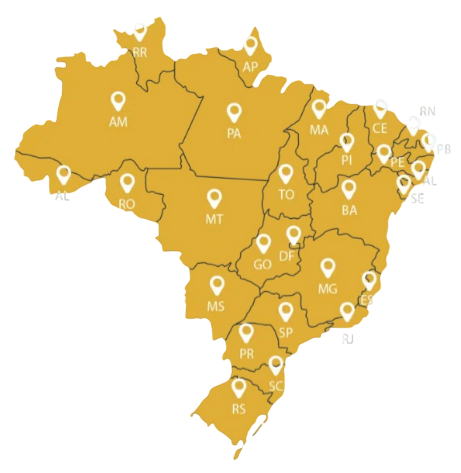
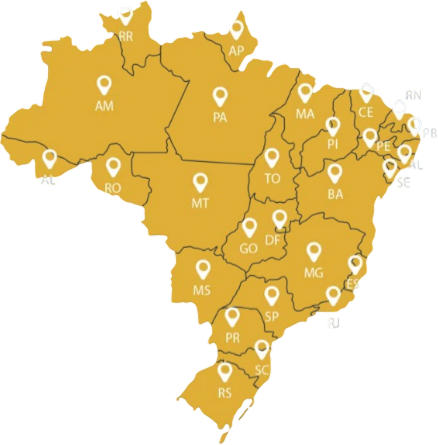
feat: Atualiza imagem de about e hero

Changed region(s): [[0.0, 0.0, 1.0, 1.0]]

diff --git a/src/components/sections/Hero.jsx b/src/components/sections/Hero.jsx
@@ -4,10 +4,10 @@ import Button from "../interactives/Button";
 import { FaWhatsapp } from "react-icons/fa";
 
 import ImageGallery from "react-image-gallery";
-import heroImg1 from "../../assets/imgs/hero/imgHero2.jpg";
-import heroImg2 from "../../assets/imgs/hero/imgHero3.jpg";
-import heroImg3 from "../../assets/imgs/hero/imgHero4.jpg";
-import heroImg4 from "../../assets/imgs/hero/imgHero5.jpg";
+import heroImg1 from "../../assets/imgs/hero/imgHero2.png";
+import heroImg2 from "../../assets/imgs/hero/imgHero3.png";
+import heroImg3 from "../../assets/imgs/hero/imgHero4.png";
+import heroImg4 from "../../assets/imgs/hero/imgHero5.png";
 import "react-image-gallery/styles/css/image-gallery.css";
 
 const whatsappContactLink = `${content.texts.links.ctaWhatsapp}`;

diff --git a/src/pages/Index.jsx b/src/pages/Index.jsx
@@ -29,7 +29,7 @@ export default function Index() {
 
       <About modal={true} />
       <AboutInstagram
-        socialPrint={false}
+        socialPrint={true}
         whatsapp={true}
         instagram={false}
         facebook={false}
